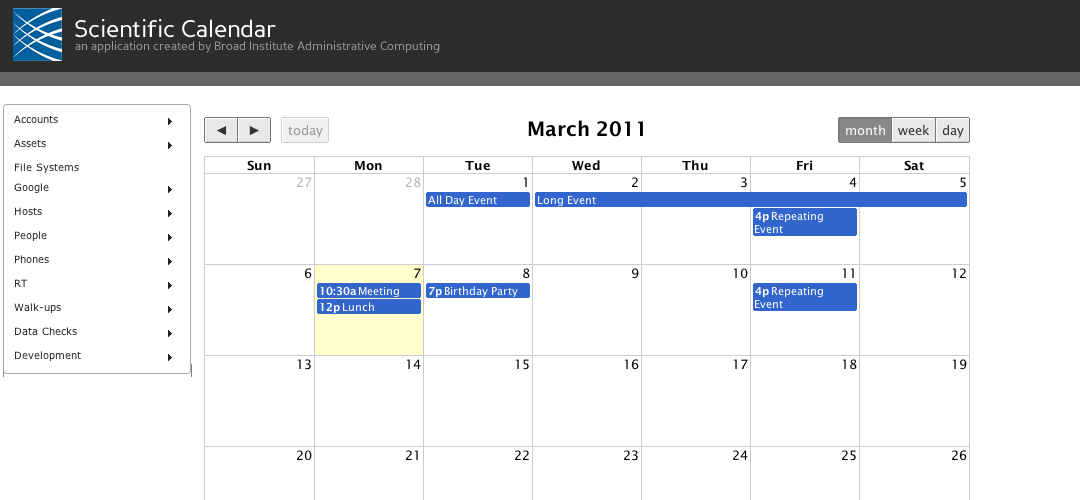
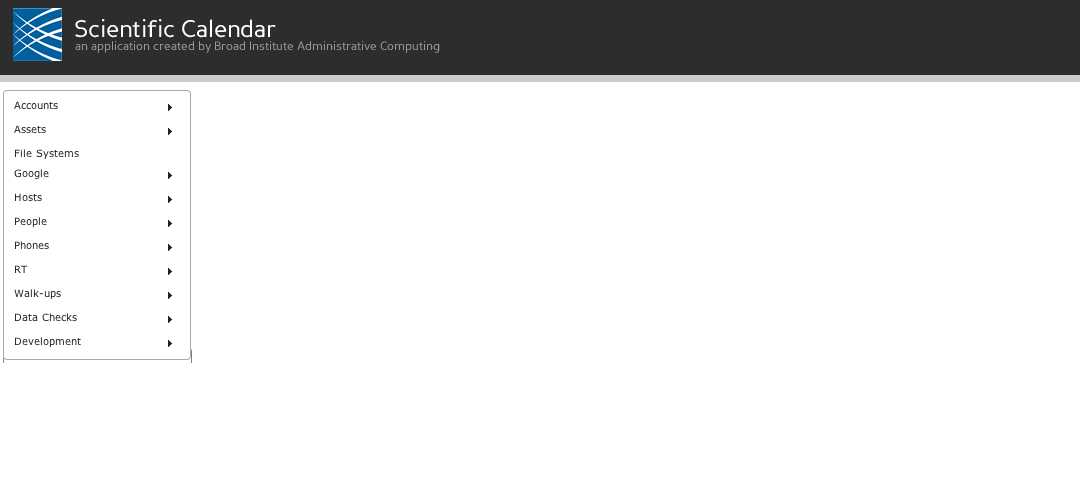
moved css to its own file, removed gradient, updated master png

diff --git a/webroot/css/default.css b/webroot/css/default.css
@@ -1,7 +1,8 @@
 body {
 	margin: 0;
-	color: black;
 	background: url(../img/header.png) repeat-x;
+	color: black;
+	font-size: 12px;
 	font-family: Verdana;
 }
 a, a:active, a:visited {
@@ -12,8 +13,27 @@ a, a:active, a:visited {
 	margin: auto;
 }
 #header {
-	height: 75px;
+	padding-top: 12px;
+	margin-bottom: 20px;
+	height: 55px;
 	font: 12px 'PerspectiveSansRegular', Arial, sans-serif;
+}
+#logo {
+	float: left;
+	margin-right: 10px;
+}
+.app-name {
+	color: white;
+	font-size: 24px;
+	padding-top: 7px;
+}
+.app-name a {
+	color: white;
+	text-decoration: none;
+}
+.app-by {
+	font-size: 12px;
+	color: #999999;
 }
 
 /* tables */
@@ -23,8 +43,3 @@ a, a:active, a:visited {
 .table th {
 	text-align: left;
 }
-
-
-/* info boxes */
-
-/* forms */
